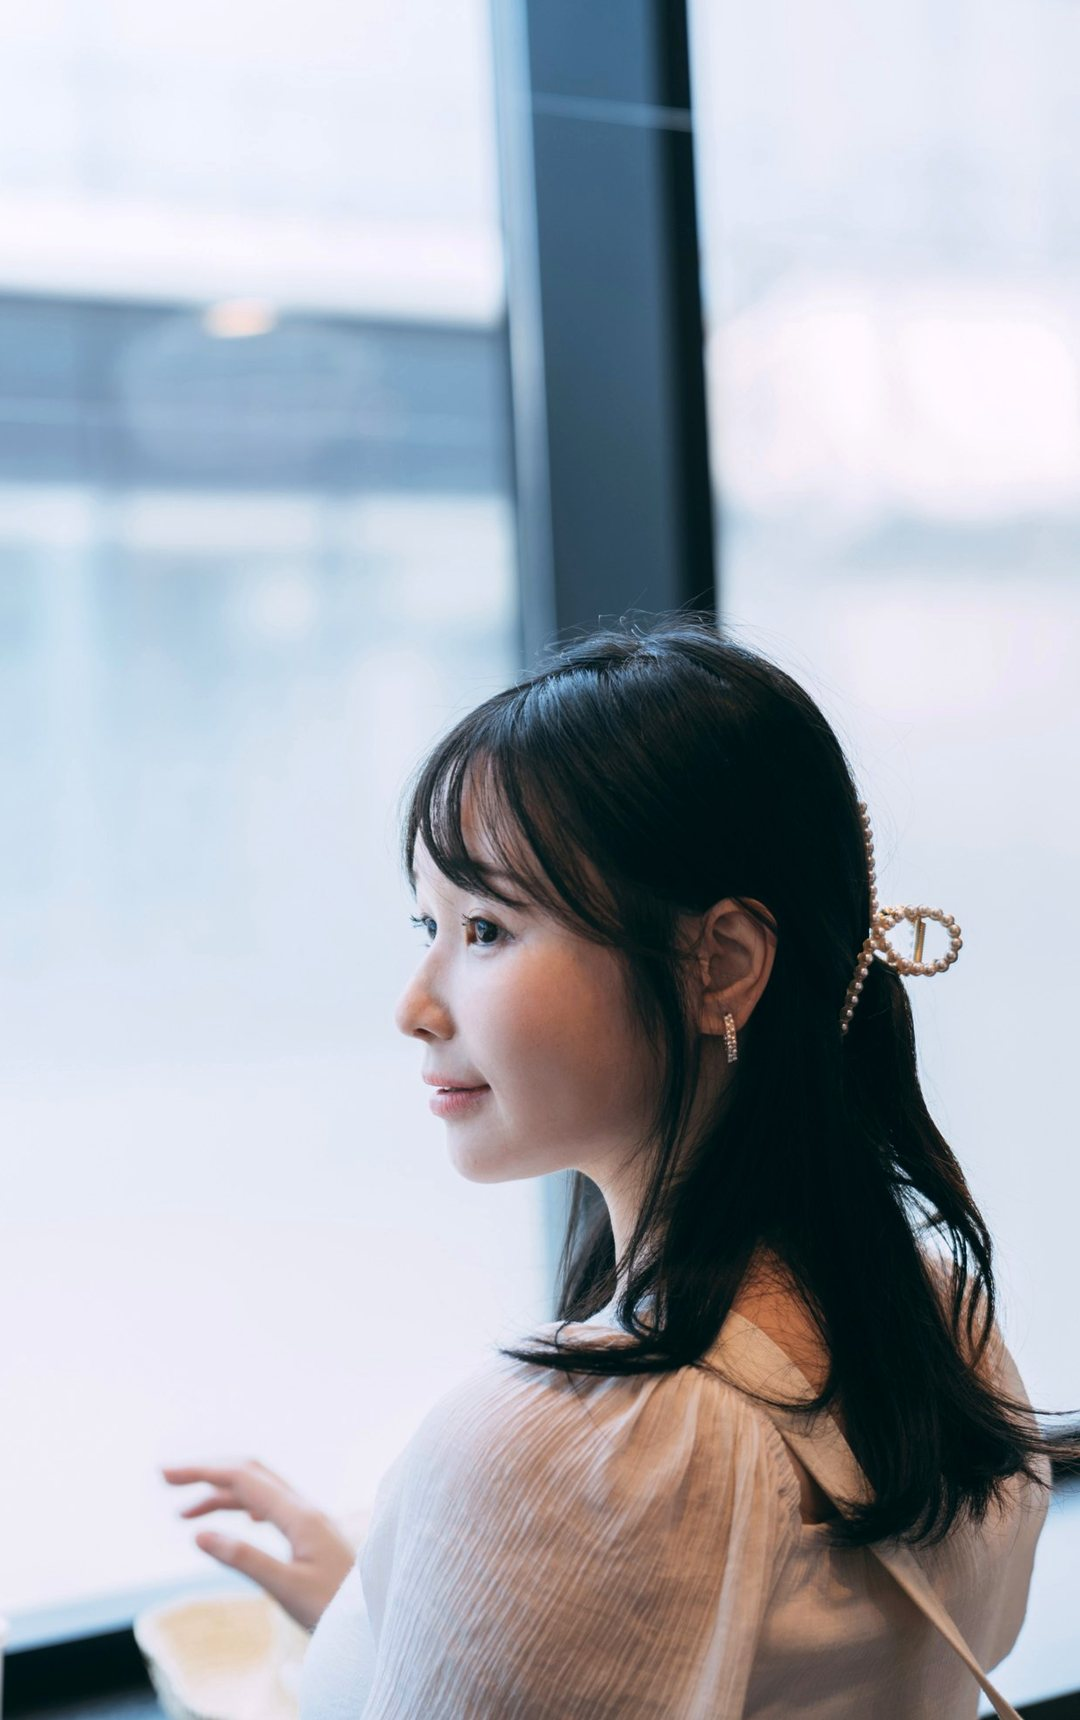
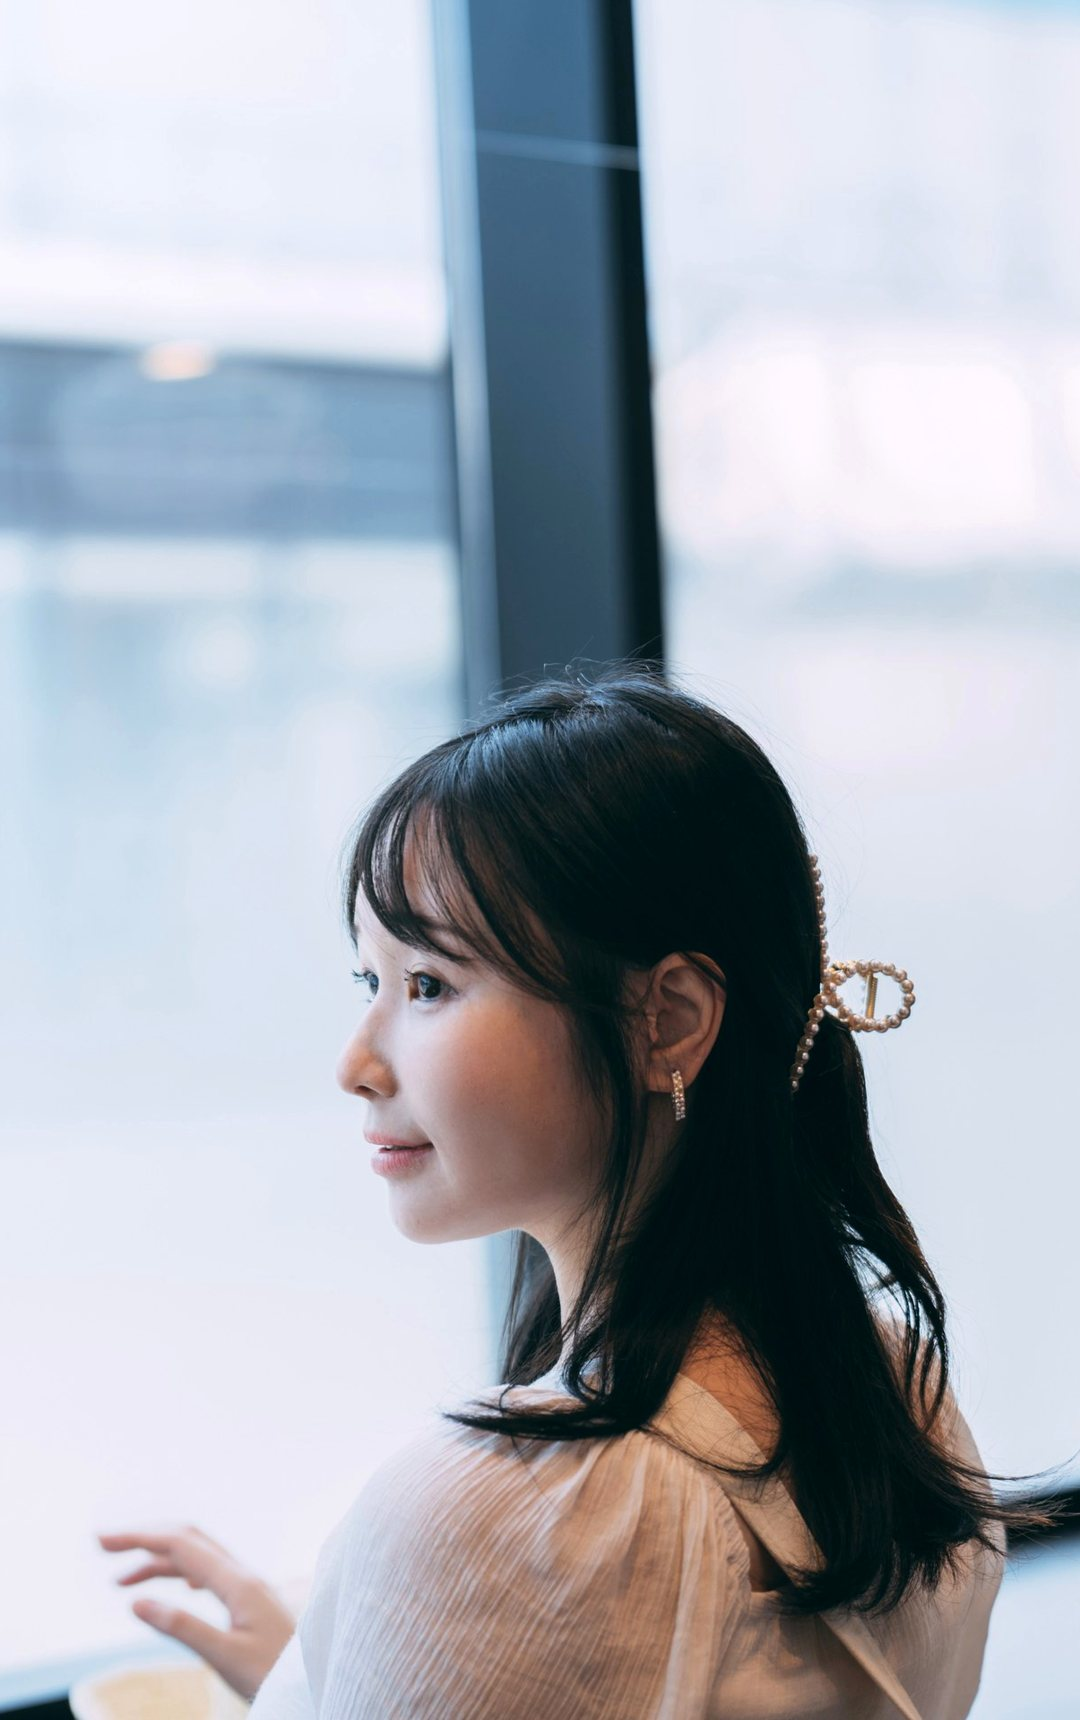
くらしプラス：ヒーローの人物を大きく、グラデーションを狭めて埋もれないように調整
Claude-Session: https://claude.ai/code/session_013de9gB6PFtFoQhpQQTAsHC

diff --git a/kurashi-plus/assets/css/style.css b/kurashi-plus/assets/css/style.css
@@ -89,12 +89,12 @@ b,strong{font-weight:500}
 .stamp b{font-weight:700}
 
 /* ---------- Hero（PC：全幅写真に白のグラデーション / SP：全画面写真） ---------- */
-@keyframes kb{from{transform:scale(1.08)}to{transform:scale(1)}}
+@keyframes kb{from{transform:scale(1.05)}to{transform:scale(1)}}
 @keyframes rise{from{opacity:0;transform:translateY(18px)}to{opacity:1;transform:none}}
 .hero{position:relative;min-height:min(90vh,860px);display:flex;align-items:center;overflow:hidden}
 .hero .media{position:absolute;inset:0;background:var(--sand)}
-.hero .media img{width:100%;height:100%;object-fit:cover;object-position:68% 30%;animation:kb 14s var(--ease) both}
-.hero .media::after{content:"";position:absolute;inset:0;background:linear-gradient(to right,rgba(255,255,255,.96) 0%,rgba(255,255,255,.92) 34%,rgba(255,255,255,.55) 50%,rgba(255,255,255,0) 68%)}
+.hero .media img{width:100%;height:100%;object-fit:cover;object-position:72% 50%;animation:kb 14s var(--ease) both}
+.hero .media::after{content:"";position:absolute;inset:0;background:linear-gradient(to right,rgba(255,255,255,.97) 0%,rgba(255,255,255,.93) 30%,rgba(255,255,255,.6) 43%,rgba(255,255,255,0) 56%)}
 .hero .stamp{align-self:flex-start;animation:rise 1s var(--ease) .1s both}
 .hero .panel{position:relative;width:100%;max-width:var(--max);margin:0 auto;padding:clamp(64px,8vw,110px) var(--gut);display:flex;flex-direction:column;gap:28px}
 .hero h1{font-size:clamp(38px,4.6vw,68px);line-height:1.4;letter-spacing:.03em;font-weight:700}
@@ -110,7 +110,7 @@ b,strong{font-weight:500}
   .hero{display:block;min-height:0}
   .hero .media{position:relative;height:100svh;min-height:600px;max-height:900px}
   .hero .media img{object-position:center top}
-  .hero .media::after{background:linear-gradient(to top,#fff 0%,rgba(255,255,255,.9) 24%,rgba(255,255,255,.4) 44%,rgba(255,255,255,0) 62%)}
+  .hero .media::after{background:linear-gradient(to top,#fff 0%,rgba(255,255,255,.9) 16%,rgba(255,255,255,.35) 30%,rgba(255,255,255,0) 44%)}
   .hero .panel{position:absolute;left:0;right:0;bottom:0;padding:0 var(--gut) calc(22px + env(safe-area-inset-bottom));gap:20px;color:var(--ink);justify-content:flex-end;margin:0}
   .hero h1{font-size:clamp(30px,8.6vw,38px);letter-spacing:.02em;line-height:1.35}
   .hero h1 .l{white-space:normal}

diff --git a/kurashi-plus/mypage.html b/kurashi-plus/mypage.html
@@ -15,7 +15,7 @@
 <link rel="preconnect" href="https://fonts.googleapis.com">
 <link rel="preconnect" href="https://fonts.gstatic.com" crossorigin>
 <link href="https://fonts.googleapis.com/css2?family=Zen+Old+Mincho:wght@400;500&family=Zen+Kaku+Gothic+New:wght@400;500;700&family=Jost:wght@300;400&display=swap" rel="stylesheet">
-<link rel="stylesheet" href="assets/css/style.css?v=efabcfb5">
+<link rel="stylesheet" href="assets/css/style.css?v=4d207f9a">
 <script src="config.js?v=b9616672"></script>
 <meta name="robots" content="noindex">
 </head>

diff --git a/kurashi-plus/services/kaden.html b/kurashi-plus/services/kaden.html
@@ -15,7 +15,7 @@
 <link rel="preconnect" href="https://fonts.googleapis.com">
 <link rel="preconnect" href="https://fonts.gstatic.com" crossorigin>
 <link href="https://fonts.googleapis.com/css2?family=Zen+Old+Mincho:wght@400;500&family=Zen+Kaku+Gothic+New:wght@400;500;700&family=Jost:wght@300;400&display=swap" rel="stylesheet">
-<link rel="stylesheet" href="../assets/css/style.css?v=efabcfb5">
+<link rel="stylesheet" href="../assets/css/style.css?v=4d207f9a">
 <script src="../config.js?v=b9616672"></script>
 
 </head>

diff --git a/kurashi-plus/services/kumamori.html b/kurashi-plus/services/kumamori.html
@@ -15,7 +15,7 @@
 <link rel="preconnect" href="https://fonts.googleapis.com">
 <link rel="preconnect" href="https://fonts.gstatic.com" crossorigin>
 <link href="https://fonts.googleapis.com/css2?family=Zen+Old+Mincho:wght@400;500&family=Zen+Kaku+Gothic+New:wght@400;500;700&family=Jost:wght@300;400&display=swap" rel="stylesheet">
-<link rel="stylesheet" href="../assets/css/style.css?v=efabcfb5">
+<link rel="stylesheet" href="../assets/css/style.css?v=4d207f9a">
 <script src="../config.js?v=b9616672"></script>
 
 </head>

diff --git a/kurashi-plus/services/lifecost.html b/kurashi-plus/services/lifecost.html
@@ -15,7 +15,7 @@
 <link rel="preconnect" href="https://fonts.googleapis.com">
 <link rel="preconnect" href="https://fonts.gstatic.com" crossorigin>
 <link href="https://fonts.googleapis.com/css2?family=Zen+Old+Mincho:wght@400;500&family=Zen+Kaku+Gothic+New:wght@400;500;700&family=Jost:wght@300;400&display=swap" rel="stylesheet">
-<link rel="stylesheet" href="../assets/css/style.css?v=efabcfb5">
+<link rel="stylesheet" href="../assets/css/style.css?v=4d207f9a">
 <script src="../config.js?v=b9616672"></script>
 
 </head>

diff --git a/kurashi-plus/services/okihai.html b/kurashi-plus/services/okihai.html
@@ -15,7 +15,7 @@
 <link rel="preconnect" href="https://fonts.googleapis.com">
 <link rel="preconnect" href="https://fonts.gstatic.com" crossorigin>
 <link href="https://fonts.googleapis.com/css2?family=Zen+Old+Mincho:wght@400;500&family=Zen+Kaku+Gothic+New:wght@400;500;700&family=Jost:wght@300;400&display=swap" rel="stylesheet">
-<link rel="stylesheet" href="../assets/css/style.css?v=efabcfb5">
+<link rel="stylesheet" href="../assets/css/style.css?v=4d207f9a">
 <script src="../config.js?v=b9616672"></script>
 
 </head>

diff --git a/kurashi-plus/services/wifi.html b/kurashi-plus/services/wifi.html
@@ -15,7 +15,7 @@
 <link rel="preconnect" href="https://fonts.googleapis.com">
 <link rel="preconnect" href="https://fonts.gstatic.com" crossorigin>
 <link href="https://fonts.googleapis.com/css2?family=Zen+Old+Mincho:wght@400;500&family=Zen+Kaku+Gothic+New:wght@400;500;700&family=Jost:wght@300;400&display=swap" rel="stylesheet">
-<link rel="stylesheet" href="../assets/css/style.css?v=efabcfb5">
+<link rel="stylesheet" href="../assets/css/style.css?v=4d207f9a">
 <script src="../config.js?v=b9616672"></script>
 
 </head>

diff --git a/kurashi-plus/terms/index.html b/kurashi-plus/terms/index.html
@@ -15,7 +15,7 @@
 <link rel="preconnect" href="https://fonts.googleapis.com">
 <link rel="preconnect" href="https://fonts.gstatic.com" crossorigin>
 <link href="https://fonts.googleapis.com/css2?family=Zen+Old+Mincho:wght@400;500&family=Zen+Kaku+Gothic+New:wght@400;500;700&family=Jost:wght@300;400&display=swap" rel="stylesheet">
-<link rel="stylesheet" href="../assets/css/style.css?v=efabcfb5">
+<link rel="stylesheet" href="../assets/css/style.css?v=4d207f9a">
 <script src="../config.js?v=b9616672"></script>
 
 </head>

diff --git a/kurashi-plus/terms/kaden.html b/kurashi-plus/terms/kaden.html
@@ -15,7 +15,7 @@
 <link rel="preconnect" href="https://fonts.googleapis.com">
 <link rel="preconnect" href="https://fonts.gstatic.com" crossorigin>
 <link href="https://fonts.googleapis.com/css2?family=Zen+Old+Mincho:wght@400;500&family=Zen+Kaku+Gothic+New:wght@400;500;700&family=Jost:wght@300;400&display=swap" rel="stylesheet">
-<link rel="stylesheet" href="../assets/css/style.css?v=efabcfb5">
+<link rel="stylesheet" href="../assets/css/style.css?v=4d207f9a">
 <script src="../config.js?v=b9616672"></script>
 
 </head>

diff --git a/kurashi-plus/terms/kumamori.html b/kurashi-plus/terms/kumamori.html
@@ -15,7 +15,7 @@
 <link rel="preconnect" href="https://fonts.googleapis.com">
 <link rel="preconnect" href="https://fonts.gstatic.com" crossorigin>
 <link href="https://fonts.googleapis.com/css2?family=Zen+Old+Mincho:wght@400;500&family=Zen+Kaku+Gothic+New:wght@400;500;700&family=Jost:wght@300;400&display=swap" rel="stylesheet">
-<link rel="stylesheet" href="../assets/css/style.css?v=efabcfb5">
+<link rel="stylesheet" href="../assets/css/style.css?v=4d207f9a">
 <script src="../config.js?v=b9616672"></script>
 
 </head>

diff --git a/kurashi-plus/terms/lifecost.html b/kurashi-plus/terms/lifecost.html
@@ -15,7 +15,7 @@
 <link rel="preconnect" href="https://fonts.googleapis.com">
 <link rel="preconnect" href="https://fonts.gstatic.com" crossorigin>
 <link href="https://fonts.googleapis.com/css2?family=Zen+Old+Mincho:wght@400;500&family=Zen+Kaku+Gothic+New:wght@400;500;700&family=Jost:wght@300;400&display=swap" rel="stylesheet">
-<link rel="stylesheet" href="../assets/css/style.css?v=efabcfb5">
+<link rel="stylesheet" href="../assets/css/style.css?v=4d207f9a">
 <script src="../config.js?v=b9616672"></script>
 
 </head>

diff --git a/kurashi-plus/terms/okihai.html b/kurashi-plus/terms/okihai.html
@@ -15,7 +15,7 @@
 <link rel="preconnect" href="https://fonts.googleapis.com">
 <link rel="preconnect" href="https://fonts.gstatic.com" crossorigin>
 <link href="https://fonts.googleapis.com/css2?family=Zen+Old+Mincho:wght@400;500&family=Zen+Kaku+Gothic+New:wght@400;500;700&family=Jost:wght@300;400&display=swap" rel="stylesheet">
-<link rel="stylesheet" href="../assets/css/style.css?v=efabcfb5">
+<link rel="stylesheet" href="../assets/css/style.css?v=4d207f9a">
 <script src="../config.js?v=b9616672"></script>
 
 </head>
